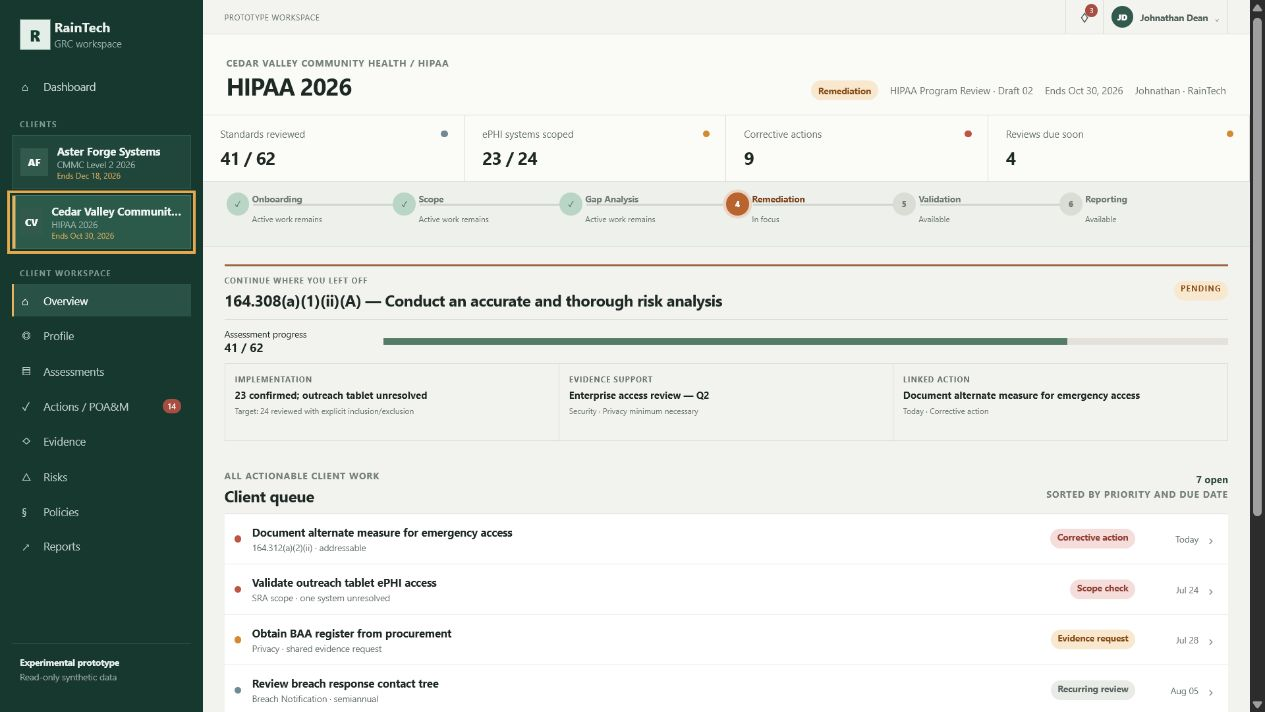
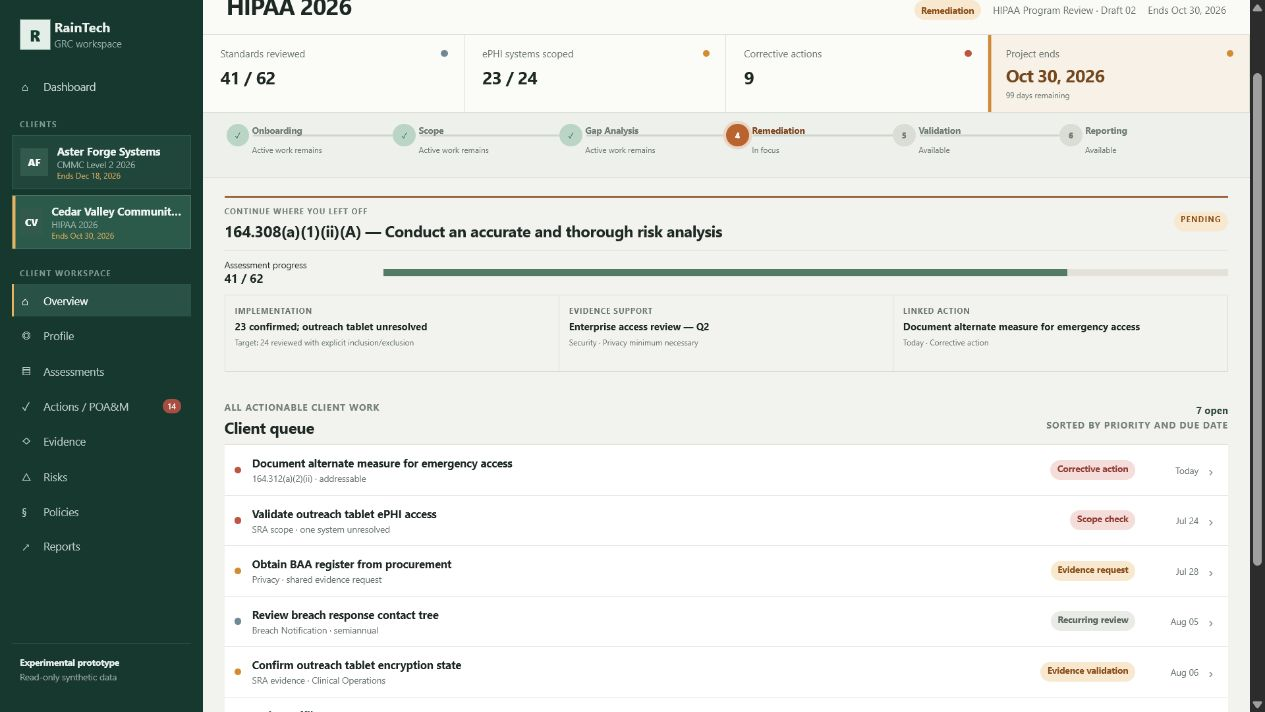
Elevate project schedules in workspace

diff --git a/prototypes/v1-project-workspace/src/main.tsx b/prototypes/v1-project-workspace/src/main.tsx
@@ -12,8 +12,8 @@ type Project = {
   project: string;
   assessment: string;
   phase: string;
-  owner: string;
   endDate: string;
+  daysRemaining: number;
   profile: number;
   frameworkAreas: string[];
   metrics: { label: string; value: string; tone: Tone }[];
@@ -33,8 +33,8 @@ const projects: Record<Framework, Project> = {
     project: "CMMC Level 2 2026",
     assessment: "CMMC 2.0 Level 2 · Draft 01",
     phase: "Gap Analysis",
-    owner: "Johnathan · RainTech",
     endDate: "Dec 18, 2026",
+    daysRemaining: 148,
     profile: 72,
     frameworkAreas: ["Scope", "Gap Analysis", "Findings", "Validation", "History"],
     metrics: [
@@ -90,8 +90,8 @@ const projects: Record<Framework, Project> = {
     project: "HIPAA 2026",
     assessment: "HIPAA Program Review · Draft 02",
     phase: "Remediation",
-    owner: "Johnathan · RainTech",
     endDate: "Oct 30, 2026",
+    daysRemaining: 99,
     profile: 81,
     frameworkAreas: ["Security Rule", "Privacy Rule", "Breach Notification", "Security Risk Analysis"],
     metrics: [
@@ -171,7 +171,6 @@ function Identity({ project }: { project: Project }) {
         <Pill tone="warn">{project.phase}</Pill>
         <span>{project.assessment}</span>
         <span>Ends {project.endDate}</span>
-        <span>{project.owner}</span>
       </div>
     </div>
   );
@@ -194,7 +193,11 @@ function UtilityBar() {
 }
 
 function Metrics({ project }: { project: Project }) {
-  return <div className="metric-strip">{project.metrics.map((metric) => <div key={metric.label}><span>{metric.label}</span><b>{metric.value}</b><i className={metric.tone} /></div>)}</div>;
+  const metrics = [
+    ...project.metrics.slice(0, 3),
+    { label: "Project ends", value: project.endDate, tone: "warn" as Tone, detail: `${project.daysRemaining} days remaining` },
+  ];
+  return <div className="metric-strip">{metrics.map((metric) => <div className={"detail" in metric ? "schedule-metric" : ""} key={metric.label}><span>{metric.label}</span><b>{metric.value}</b>{"detail" in metric && <small>{metric.detail}</small>}<i className={metric.tone} /></div>)}</div>;
 }
 
 function ActionRows({ project, limit = 4 }: { project: Project; limit?: number }) {
@@ -212,10 +215,25 @@ function PortfolioDashboard({ onOpenClient }: { onOpenClient: (framework: Framew
         <Pill tone="neutral">Internal workspace</Pill>
       </header>
       <div className="portfolio-metrics">
-        <div><span>Active clients</span><b>2</b><small>Next project end · Oct 30, 2026</small></div>
+        <div><span>Active clients</span><b>2</b><small>CMMC and HIPAA engagements</small></div>
         <div><span>Open work</span><b>{actions.length}</b><small>Across all client queues</small></div>
         <div><span>Due today</span><b>2</b><small>Both require validation</small></div>
         <div><span>High priority</span><b>4</b><small>Corrective action or risk treatment</small></div>
+      </div>
+      <div className="active-projects-heading"><span>Current delivery schedule</span><h2>Active projects</h2></div>
+      <div className="active-projects">
+        {(Object.keys(projects) as Framework[]).map((framework) => {
+          const item = projects[framework];
+          return (
+            <button key={framework} onClick={() => onOpenClient(framework)}>
+              <div><span>{item.client}</span><h3>{item.project}</h3></div>
+              <Pill tone="warn">{item.phase}</Pill>
+              <div className="project-date"><span>Project end</span><b>{item.endDate}</b></div>
+              <div className="project-days"><b>{item.daysRemaining}</b><span>days remaining</span></div>
+              <em>›</em>
+            </button>
+          );
+        })}
       </div>
       <div className="section-title portfolio-queue-title">
         <div><span>Every client</span><h2>Unified queue</h2></div>

diff --git a/prototypes/v1-project-workspace/src/styles.css b/prototypes/v1-project-workspace/src/styles.css
@@ -53,6 +53,9 @@ code { font-family: "Cascadia Mono", Consolas, monospace; color: #2d5d4d; font-s
 .metric-strip > div { min-height: 65px; padding: 12px 18px; border-right: 1px solid var(--line); position: relative; display: flex; flex-direction: column; gap: 5px; }
 .metric-strip span { font-size: 10px; color: var(--muted); }
 .metric-strip b { font-size: 18px; letter-spacing: -.03em; }
+.metric-strip small { font-size: 8px; }
+.metric-strip .schedule-metric { gap: 3px; background: #f7f1e7; box-shadow: inset 3px 0 #d08a37; }
+.metric-strip .schedule-metric b { color: #75471f; }
 .metric-strip i { position: absolute; top: 15px; right: 16px; width: 7px; height: 7px; border-radius: 50%; }
 i.good { background: #3c8d63; } i.warn { background: #d48a33; } i.bad { background: #bd5545; } i.neutral { background: #718995; }
 
@@ -110,7 +113,20 @@ i.good { background: #3c8d63; } i.warn { background: #d48a33; } i.bad { backgrou
 .portfolio-metrics span { color: var(--muted); font-size: 9px; }
 .portfolio-metrics b { font-size: 20px; }
 .portfolio-metrics small { font-size: 8px; }
-.portfolio-queue-title { margin-top: 22px; }
+.active-projects-heading { margin: 22px 0 9px; }
+.active-projects-heading > span { color: var(--muted); font-size: 8px; font-weight: 700; letter-spacing: .09em; text-transform: uppercase; }
+.active-projects { display: grid; grid-template-columns: repeat(2, 1fr); gap: 10px; }
+.active-projects > button { min-height: 86px; display: grid; grid-template-columns: minmax(190px, 1fr) auto 118px 86px 10px; align-items: center; gap: 12px; padding: 12px 14px; border: 1px solid var(--line); background: #fff; text-align: left; cursor: pointer; }
+.active-projects > button:hover { background: #f0f5f1; border-color: #9eb5aa; }
+.active-projects > button > div:first-child span { color: var(--muted); font-size: 8px; }
+.active-projects h3 { margin-top: 3px; font-size: 13px; }
+.active-projects .project-date, .active-projects .project-days { display: flex; flex-direction: column; gap: 3px; }
+.active-projects .project-date span, .active-projects .project-days span { color: var(--muted); font-size: 8px; text-transform: uppercase; letter-spacing: .06em; }
+.active-projects .project-date b { font-size: 11px; }
+.active-projects .project-days { align-items: flex-end; padding-left: 11px; border-left: 1px solid var(--line); }
+.active-projects .project-days b { color: #8a4d17; font-size: 21px; line-height: 1; }
+.active-projects em { color: #82908a; font-style: normal; }
+.portfolio-queue-title { margin-top: 24px; }
 .portfolio-queue .row { grid-template-columns: 8px minmax(260px, 1fr) auto auto 54px 10px; }
 .a-phase-rail { display: grid; grid-template-columns: repeat(6, 1fr); padding: 11px 24px; border-bottom: 1px solid var(--line); background: #eef1eb; }
 .a-phase-rail > div { position: relative; min-height: 43px; display: grid; grid-template-columns: 26px 1fr; grid-template-rows: 21px 16px; text-align: left; color: #707a76; }
@@ -190,6 +206,7 @@ i.good { background: #3c8d63; } i.warn { background: #d48a33; } i.bad { backgrou
 
 @media (max-width: 1300px) {
   .objective-workspace { grid-template-columns: 240px minmax(400px, 1fr) 330px; }
+  .active-projects { grid-template-columns: 1fr; }
 }
 
 @media (max-width: 1250px) {

diff --git a/docs/prototypes/v1-ui-prototype-review.md b/docs/prototypes/v1-ui-prototype-review.md
@@ -35,7 +35,9 @@ Initial direction selected by Johnathan:
   client Overview owns a Client Queue.
 - **Project schedule:** project end date is required during onboarding/profile
   setup and is surfaced in the client list, selected project identity, and
-  global portfolio summary.
+  global portfolio summary. Dashboard shows Active Projects above Unified
+  Queue with project name, end date, and days remaining. Client pages replace
+  the redundant due-soon metric with a prominent Project Ends metric.
 - **Assessment workspace:** retain A's dense requirement list and right-side
   inspector concept, but move it out of Overview and into a dedicated
   objective-by-objective assessment workspace.
@@ -50,7 +52,8 @@ Initial direction selected by Johnathan:
   report blockers enter that queue rather than appearing in a separate summary
   strip.
 - **Global utility context:** add a compact top bar for notifications and the
-  signed-in user without competing with project identity.
+  signed-in user without competing with project identity; do not duplicate the
+  signed-in name in each project header.
 - **Assessment interaction:** selecting `Assessments` opens an objective
   navigator, a central decision surface with requirement text, what to
   determine, implementation guidance, expected evidence, linked work, and the

diff --git a/PROJECT_STATUS.md b/PROJECT_STATUS.md
@@ -49,6 +49,9 @@ GitHub issue #20: Prototype V1 project workspace UI variants.
   switcher were removed.
 - Project end date is now modeled as an onboarding/profile field and surfaced
   in client selection, project identity, and global portfolio orientation.
+- Dashboard now places Active Projects above Unified Queue with end dates and
+  days remaining; client metric strips emphasize the project end schedule in
+  place of redundant due-soon counts.
 
 ## In progress
 
